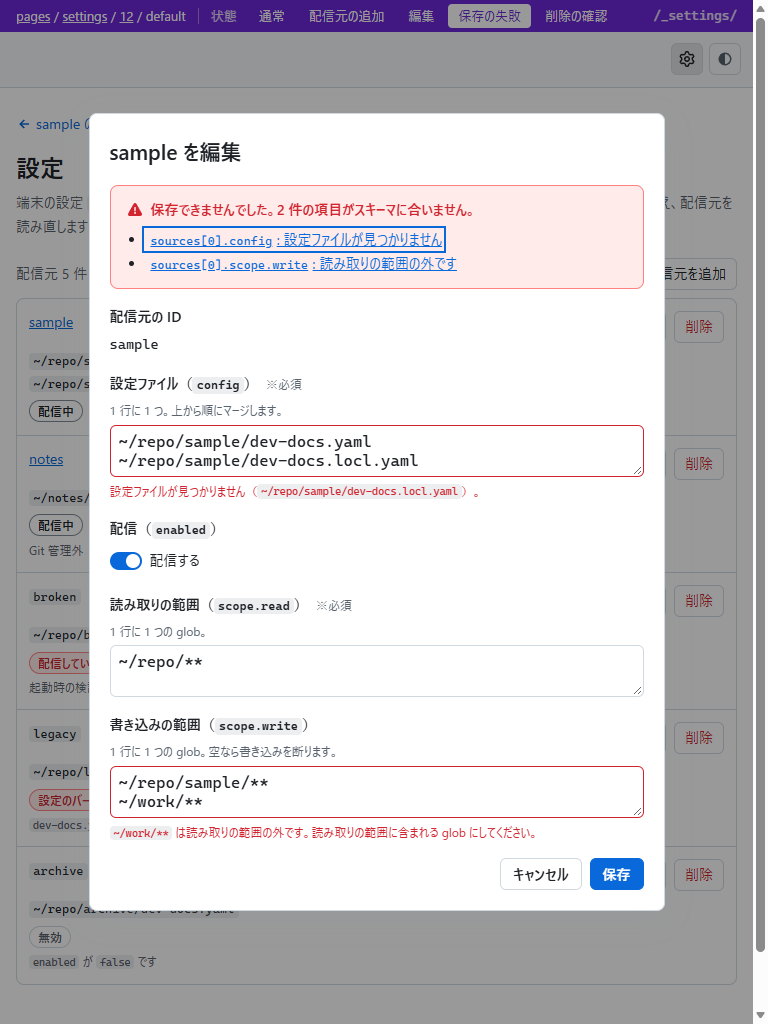
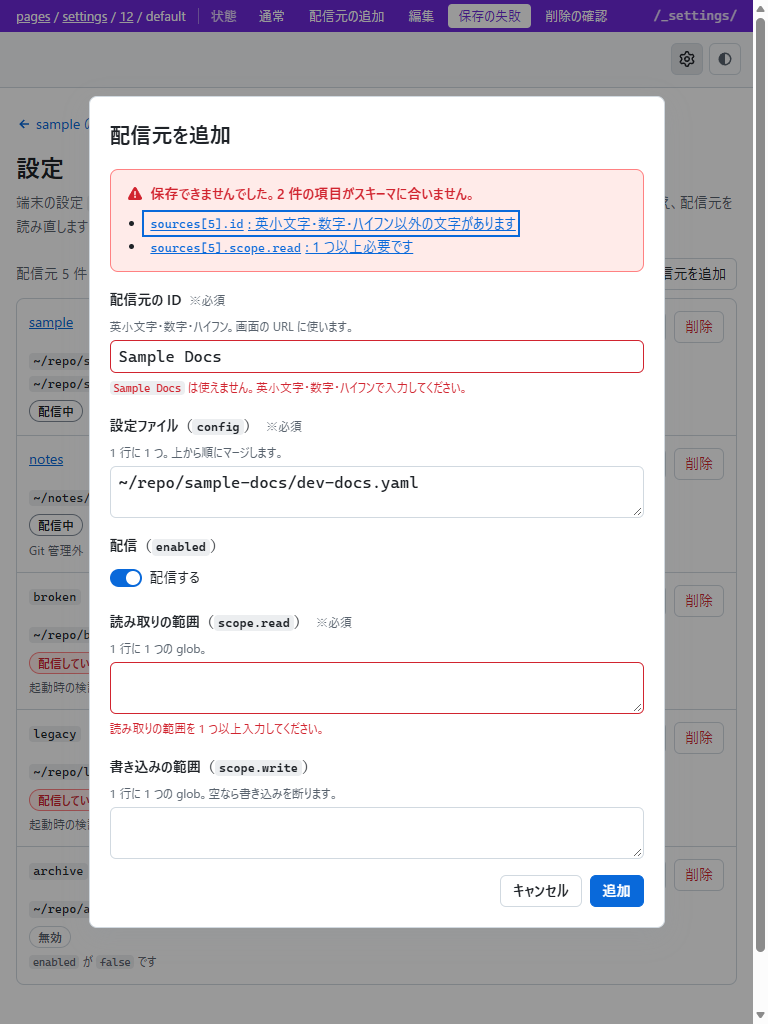
fix: モックの保存の失敗をスキーマの違反にし、Issue の起票に文書のパスとコメントを載せる
- 設定画面の保存の失敗の例を、ID の書式と scope.read の空にする
- legacy の状態のバッジを「配信していません」にし、設定ファイルの列を折り返さない
- Issue の起票画面の URL に title と body を載せ、長すぎるときは本文の末尾を切る

diff --git a/dev/mock/pages/settings/12/default/index.html b/dev/mock/pages/settings/12/default/index.html
@@ -68,7 +68,7 @@
           <tbody>
             <tr>
               <td><a href="../../../doc-view/12/default/index.html">sample</a></td>
-              <td><code>~/repo/sample/dev-docs.yaml</code><br><code>~/repo/sample/dev-docs.local.yaml</code></td>
+              <td class="col-config"><code>~/repo/sample/dev-docs.yaml</code><br><code>~/repo/sample/dev-docs.local.yaml</code></td>
               <td class="col-status"><span class="status status--ok">配信中</span></td>
               <td class="col-actions">
                 <button class="tool-button" type="button" commandfor="edit-dialog" command="show-modal" aria-label="sample を編集">編集</button>
@@ -77,7 +77,7 @@
             </tr>
             <tr>
               <td><a href="../../../doc-view/12/default/index.html">notes</a></td>
-              <td><code>~/notes/dev-docs.yaml</code></td>
+              <td class="col-config"><code>~/notes/dev-docs.yaml</code></td>
               <td class="col-status"><span class="status status--ok">配信中</span><span class="status-note">Git 管理外</span></td>
               <td class="col-actions">
                 <button class="tool-button" type="button" commandfor="edit-dialog" command="show-modal" aria-label="notes を編集">編集</button>
@@ -86,7 +86,7 @@
             </tr>
             <tr>
               <td><code>broken</code></td>
-              <td><code>~/repo/broken/dev-docs.yaml</code></td>
+              <td class="col-config"><code>~/repo/broken/dev-docs.yaml</code></td>
               <td class="col-status"><span class="status status--error">配信していません</span><span class="status-note">起動時の検証で外しました（<code>dev-docs.yaml</code> の <code>documents[0]</code> に必須のキー <code>paths</code> がありません）</span></td>
               <td class="col-actions">
                 <button class="tool-button" type="button" commandfor="edit-dialog" command="show-modal" aria-label="broken を編集">編集</button>
@@ -95,8 +95,8 @@
             </tr>
             <tr>
               <td><code>legacy</code></td>
-              <td><code>~/repo/legacy/dev-docs.yaml</code></td>
-              <td class="col-status"><span class="status status--error">設定のバージョンが古い</span><span class="status-note"><code>dev-docs.yaml</code> の <code>version</code> は 1 です。このサーバーは 2 を読みます</span></td>
+              <td class="col-config"><code>~/repo/legacy/dev-docs.yaml</code></td>
+              <td class="col-status"><span class="status status--error">配信していません</span><span class="status-note">起動時の検証で外しました（<code>dev-docs.yaml</code> の <code>version</code> が古い 1 のためです。このサーバーが読むのは 2 です）</span></td>
               <td class="col-actions">
                 <button class="tool-button" type="button" commandfor="edit-dialog" command="show-modal" aria-label="legacy を編集">編集</button>
                 <button class="tool-button tool-button--danger" type="button" commandfor="delete-dialog" command="show-modal" aria-label="legacy を削除">削除</button>
@@ -104,7 +104,7 @@
             </tr>
             <tr>
               <td><code>archive</code></td>
-              <td><code>~/repo/archive/dev-docs.yaml</code></td>
+              <td class="col-config"><code>~/repo/archive/dev-docs.yaml</code></td>
               <td class="col-status"><span class="status status--muted">無効</span><span class="status-note"><code>enabled</code> が <code>false</code> です</span></td>
               <td class="col-actions">
                 <button class="tool-button" type="button" commandfor="edit-dialog" command="show-modal" aria-label="archive を編集">編集</button>
@@ -123,7 +123,7 @@
         <div class="field">
           <label class="field__label" for="add-id">配信元の ID<span class="field__required">※必須</span></label>
           <p class="field__hint" id="add-id-hint">英小文字・数字・ハイフン。画面の URL に使います。</p>
-          <input class="field__input mono" id="add-id" type="text" pattern="[a-z0-9\-]+" aria-describedby="add-id-hint" autocomplete="off" spellcheck="false" required>
+          <input class="field__input mono" id="add-id" type="text" pattern="[a-z0-9\-]+" aria-describedby="add-id-hint" autocomplete="off" spellcheck="false" required value="">
         </div>
         <div class="field">
           <label class="field__label" for="add-config">設定ファイル（<code>config</code>）<span class="field__required">※必須</span></label>
@@ -187,45 +187,44 @@
 
   <dialog id="invalid-dialog" class="dialog" aria-labelledby="invalid-dialog-title" data-open-states="invalid">
     <form method="dialog" class="dialog__form">
-      <h2 class="dialog__title" id="invalid-dialog-title">sample を編集</h2>
+      <h2 class="dialog__title" id="invalid-dialog-title">配信元を追加</h2>
         <!-- 保存できなかったときのまとめ（項目へのリンク） -->
         <div class="error-summary" role="alert">
           <p class="error-summary__title"><svg aria-hidden="true" viewBox="0 0 16 16" width="16" height="16"><path d="M6.46 1.95a1.75 1.75 0 0 1 3.08 0l5.25 9.5A1.75 1.75 0 0 1 13.25 14H2.75a1.75 1.75 0 0 1-1.54-2.55zM8 5a.75.75 0 0 0-.75.75v3a.75.75 0 0 0 1.5 0v-3A.75.75 0 0 0 8 5m0 7a1 1 0 1 0 0-2 1 1 0 0 0 0 2"/></svg>保存できませんでした。2 件の項目がスキーマに合いません。</p>
           <ul>
-            <li><a href="#invalid-config"><code>sources[0].config</code>: 設定ファイルが見つかりません</a></li>
-            <li><a href="#invalid-write"><code>sources[0].scope.write</code>: 読み取りの範囲の外です</a></li>
+            <li><a href="#invalid-id"><code>sources[5].id</code>: 英小文字・数字・ハイフン以外の文字があります</a></li>
+            <li><a href="#invalid-read"><code>sources[5].scope.read</code>: 1 つ以上必要です</a></li>
           </ul>
         </div>
-        <div class="field">
-          <p class="field__label">配信元の ID</p>
-          <p class="field__value mono">sample</p>
-        </div>
         <div class="field is-invalid">
+          <label class="field__label" for="invalid-id">配信元の ID<span class="field__required">※必須</span></label>
+          <p class="field__hint" id="invalid-id-hint">英小文字・数字・ハイフン。画面の URL に使います。</p>
+          <input class="field__input mono" id="invalid-id" type="text" pattern="[a-z0-9\-]+" aria-describedby="invalid-id-hint invalid-id-error" autocomplete="off" spellcheck="false" required value="Sample Docs" aria-invalid="true">
+          <p class="field__error" id="invalid-id-error"><code>Sample Docs</code> は使えません。英小文字・数字・ハイフンで入力してください。</p>
+        </div>
+        <div class="field">
           <label class="field__label" for="invalid-config">設定ファイル（<code>config</code>）<span class="field__required">※必須</span></label>
           <p class="field__hint" id="invalid-config-hint">1 行に 1 つ。上から順にマージします。</p>
-          <textarea class="field__input mono" id="invalid-config" rows="2" spellcheck="false" aria-describedby="invalid-config-hint invalid-config-error" aria-invalid="true">~/repo/sample/dev-docs.yaml
-~/repo/sample/dev-docs.locl.yaml</textarea>
-          <p class="field__error" id="invalid-config-error">設定ファイルが見つかりません（<code>~/repo/sample/dev-docs.locl.yaml</code>）。</p>
+          <textarea class="field__input mono" id="invalid-config" rows="2" spellcheck="false" aria-describedby="invalid-config-hint">~/repo/sample-docs/dev-docs.yaml</textarea>
         </div>
         <div class="field">
           <p class="field__label">配信（<code>enabled</code>）</p>
           <label class="switch"><input type="checkbox" role="switch" id="invalid-enabled" checked> 配信する</label>
         </div>
-        <div class="field">
+        <div class="field is-invalid">
           <label class="field__label" for="invalid-read">読み取りの範囲（<code>scope.read</code>）<span class="field__required">※必須</span></label>
           <p class="field__hint" id="invalid-read-hint">1 行に 1 つの glob。</p>
-          <textarea class="field__input mono" id="invalid-read" rows="2" spellcheck="false" aria-describedby="invalid-read-hint">~/repo/**</textarea>
+          <textarea class="field__input mono" id="invalid-read" rows="2" spellcheck="false" aria-describedby="invalid-read-hint invalid-read-error" aria-invalid="true"></textarea>
+          <p class="field__error" id="invalid-read-error">読み取りの範囲を 1 つ以上入力してください。</p>
         </div>
-        <div class="field is-invalid">
+        <div class="field">
           <label class="field__label" for="invalid-write">書き込みの範囲（<code>scope.write</code>）</label>
           <p class="field__hint" id="invalid-write-hint">1 行に 1 つの glob。空なら書き込みを断ります。</p>
-          <textarea class="field__input mono" id="invalid-write" rows="2" spellcheck="false" aria-describedby="invalid-write-hint invalid-write-error" aria-invalid="true">~/repo/sample/**
-~/work/**</textarea>
-          <p class="field__error" id="invalid-write-error"><code>~/work/**</code> は読み取りの範囲の外です。読み取りの範囲に含まれる glob にしてください。</p>
+          <textarea class="field__input mono" id="invalid-write" rows="2" spellcheck="false" aria-describedby="invalid-write-hint"></textarea>
         </div>
       <div class="dialog__actions">
         <button class="button" type="submit" value="cancel" formnovalidate>キャンセル</button>
-        <button class="button button--primary" type="submit" value="ok">保存</button>
+        <button class="button button--primary" type="submit" value="ok">追加</button>
       </div>
     </form>
   </dialog>

diff --git a/dev/mock/refs/12/assets/mock.js b/dev/mock/refs/12/assets/mock.js
@@ -125,6 +125,9 @@ const QUOTE_MAX = 30;
 const QUOTE_KEEP = 12;
 // 通知を出しておく時間
 const TOAST_MS = 2400;
+// 起票画面の URL の長さの上限と、本文を切り詰めたときに末尾へ付ける文
+const ISSUE_URL_MAX = 8000;
+const ISSUE_TRUNCATED = "\n\n…（長さの上限を超えたため、本文の末尾を切り詰めました。全文はクリップボードにコピーしています）";
 // 選択の下に出すボタンの、画面の右端から離す幅
 const ADD_BUTTON_ROOM = 160;
 
@@ -384,6 +387,11 @@ function closeCommentPanel() {
   openButton.focus();
 }
 
+/** 選んだコメントを一覧の順にまとめた文字列にする */
+function formatComments(comments) {
+  return comments.map((c) => `${formatLocation(c)}\n> ${c.quote}\n\n${c.body}`).join("\n\n---\n\n");
+}
+
 /** 選んだコメントを一覧の順にまとめてクリップボードへ書く */
 async function copyComments() {
   const selected = loadComments().filter((c) => c.selected);
@@ -391,7 +399,7 @@ async function copyComments() {
     showToast(COMMENT_LABELS.noSelection);
     return false;
   }
-  const text = selected.map((c) => `${formatLocation(c)}\n> ${c.quote}\n\n${c.body}`).join("\n\n---\n\n");
+  const text = formatComments(selected);
   try {
     await navigator.clipboard.writeText(text);
   } catch {
@@ -402,11 +410,33 @@ async function copyComments() {
   return true;
 }
 
-/** 選んだコメントをコピーしてから、GitHub の Issue の起票画面を別のタブで開く */
+/** 起票画面の URL を組み立てる */
+function buildIssueUrl(title, body) {
+  const params = new URLSearchParams({ title, body, labels: document.body.dataset.issueLabels });
+  return `https://github.com/${document.body.dataset.issueRepo}/issues/new?${params}`;
+}
+
+/** 長さの上限に収まるまで本文の末尾を切り詰めた URL を返す */
+function fitIssueUrl(title, body) {
+  const full = buildIssueUrl(title, body);
+  if (full.length <= ISSUE_URL_MAX) return full;
+  let lo = 0;
+  let hi = body.length;
+  // 収まる本文の長さを二分探索で求める
+  while (lo < hi) {
+    const mid = Math.ceil((lo + hi) / 2);
+    if (buildIssueUrl(title, body.slice(0, mid) + ISSUE_TRUNCATED).length <= ISSUE_URL_MAX) lo = mid;
+    else hi = mid - 1;
+  }
+  return buildIssueUrl(title, body.slice(0, lo) + ISSUE_TRUNCATED);
+}
+
+/** 選んだコメントをコピーしてから、文書のパスとコメントを載せた GitHub の Issue の起票画面を別のタブで開く */
 async function openIssue() {
   if (!(await copyComments())) return;
-  const params = new URLSearchParams({ labels: document.body.dataset.issueLabels });
-  window.open(`https://github.com/${document.body.dataset.issueRepo}/issues/new?${params}`, "_blank", "noopener");
+  const selected = loadComments().filter((c) => c.selected);
+  const title = [...new Set(selected.map((c) => c.file))].join("、");
+  window.open(fitIssueUrl(title, formatComments(selected)), "_blank", "noopener");
 }
 
 if (panel) {

diff --git a/dev/mock/assets/style.css b/dev/mock/assets/style.css
@@ -1569,7 +1569,12 @@ button.mockbar__tab {
 
 /* 状態の列（理由を読める幅にする） */
 .table-wrap .col-status {
-  min-width: 16em;
+  min-width: 12em;
+}
+
+/* 設定ファイルの列（パスを途中で折り返さない） */
+.table-wrap .col-config {
+  white-space: nowrap;
 }
 
 /* 行の操作の列 */
@@ -1837,9 +1842,15 @@ button.mockbar__tab {
       border: 0;
     }
 
-    & td:nth-child(2),
+    & .col-config,
     & .col-status {
       grid-column: 1 / -1;
+    }
+
+    /* 1 枚の幅に収まらないパスは折り返す */
+    & .col-config {
+      white-space: normal;
+      overflow-wrap: anywhere;
     }
 
     & .col-actions {
